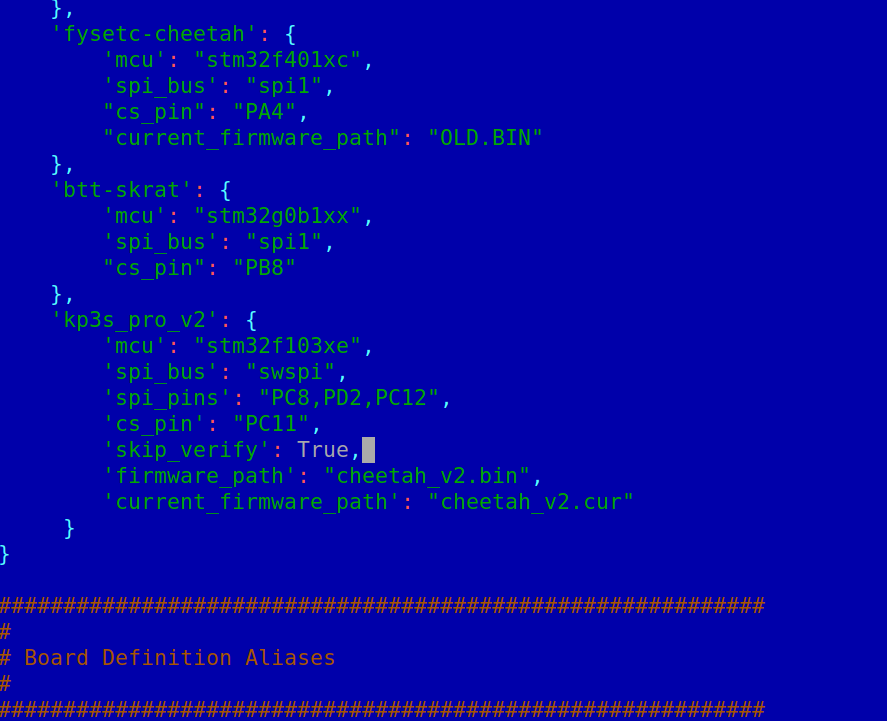
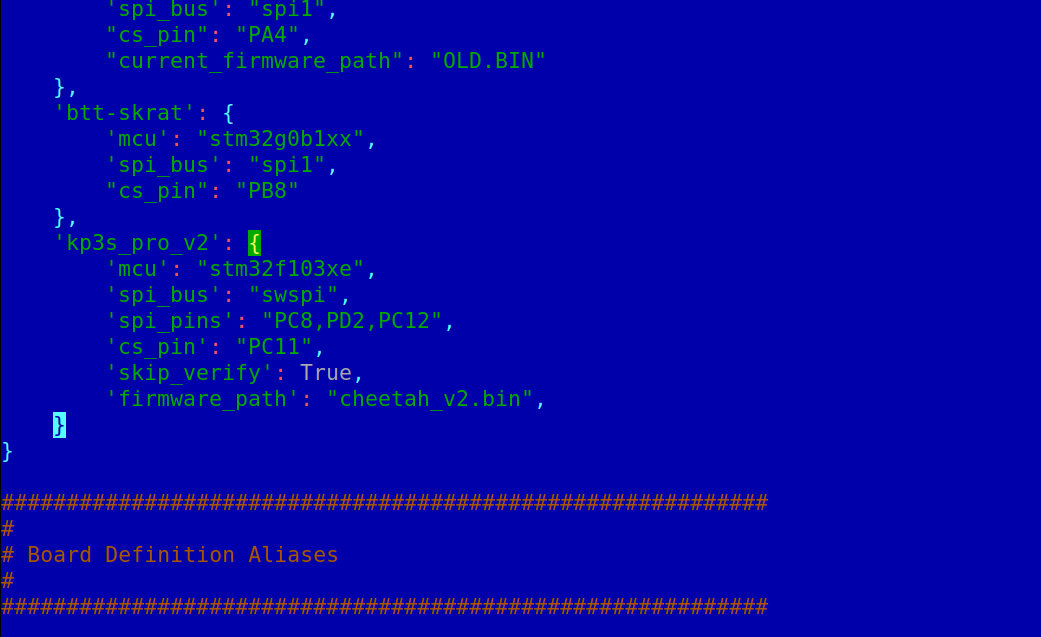
MCU flashing added

diff --git a/README.md b/README.md
@@ -395,8 +395,8 @@ Add the following lines to BOARD_DEFS dictionary:
         'spi_pins': "PC8,PD2,PC12",
         'cs_pin': "PC11",
         'skip_verify': True,
-        'firmware_path': "cheetah_v2.bin",
-     }
+        'firmware_path': "cheetah_v2.bin"
+    }
 
 ```
 ![Select compiling options](./pictures/klipper_fw_4.png)
@@ -414,6 +414,17 @@ Result:
 
 ![Select compiling options](./pictures/klipper_fw_5.png)
 
+Ignore this error.
+Now just need to turn printer off and on with poweroff command.
+After establishing ssh connection run the following command from the klipper directory:
+```bash
+
+ ./scripts/flash-sdcard.sh -c /dev/ttyS0 kp3s_pro_v2
+```
+It will compare flashed firmware with its image on the host system. If everything is ok then result will be:
+![Select compiling options](./pictures/klipper_fw_6.png)
+
+```
 
 </details>
 
